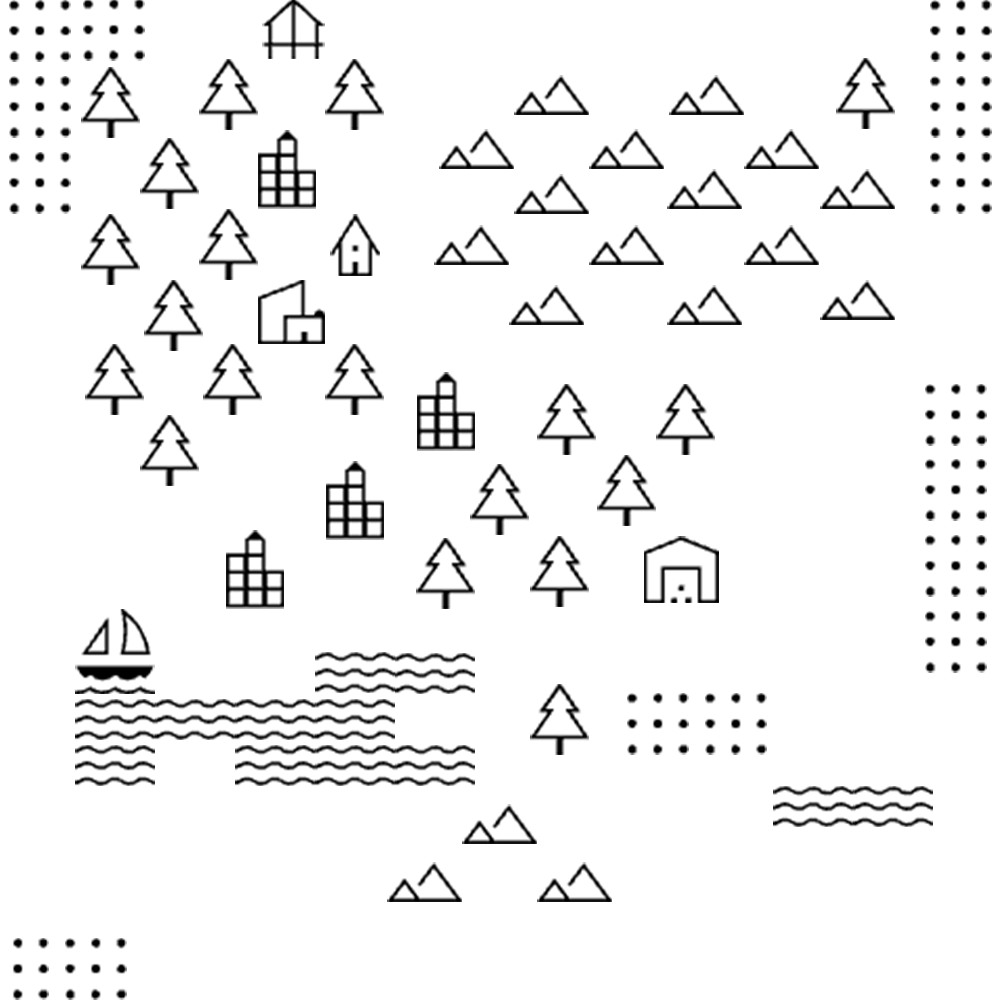
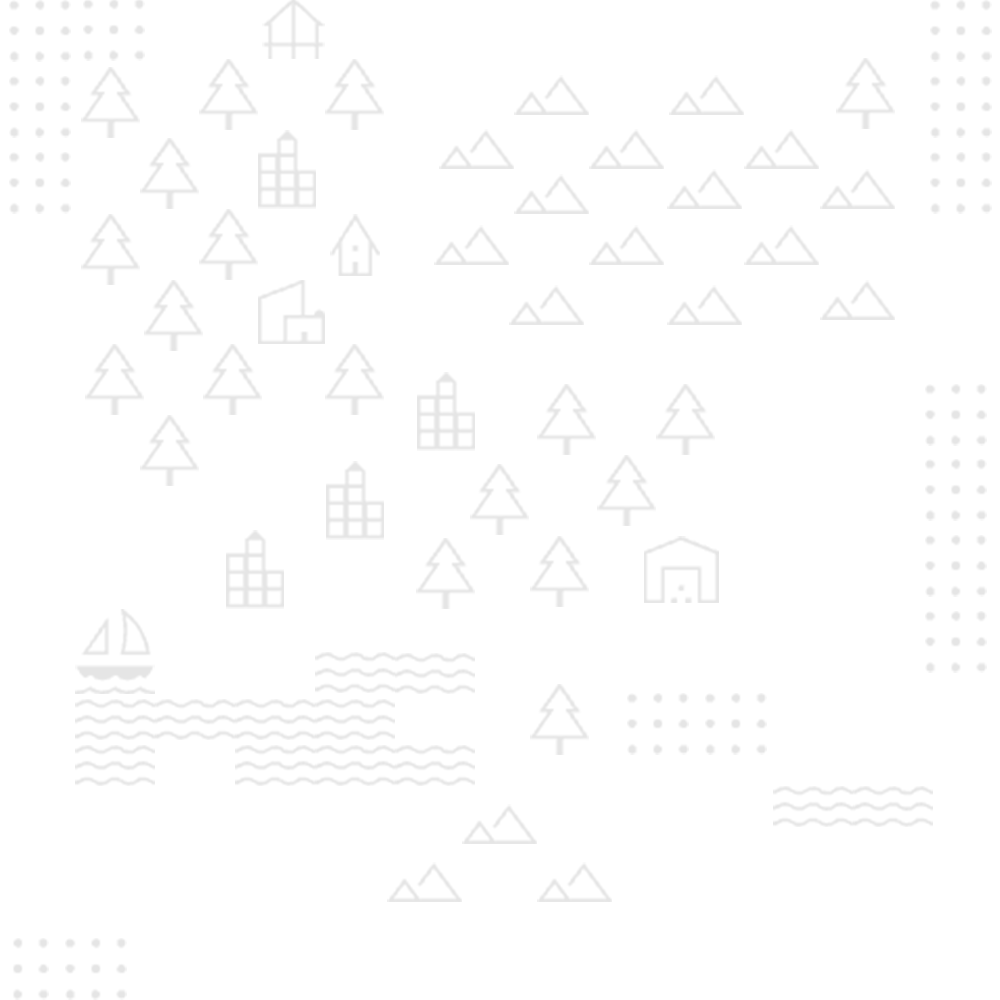
Fix potential issues on the iOS side: Blend mode does not work with Repeating.

diff --git a/src/components/bodyContentViewerCreative.vue b/src/components/bodyContentViewerCreative.vue
@@ -70,7 +70,6 @@ export default {
   background-color: var(--body-content-bg);
   height: 50rem;
   background-image: url('../assets/background/abstract-small.webp');
-  background-blend-mode: soft-light;
   background-position: center;
   background-origin: content-box;
   background-repeat: repeat-x;
@@ -148,7 +147,6 @@ export default {
   background-color: var(--body-content-bg);
   transform: translateY(-10rem);
   background-image: url('../assets/background/abstract-small-2.webp');
-  background-blend-mode: soft-light;
   background-position: center;
   background-origin: content-box;
   background-repeat: repeat-x;

diff --git a/src/components/bodyContentViewerLobby.vue b/src/components/bodyContentViewerLobby.vue
@@ -71,7 +71,6 @@ export default {
   background-color: var(--body-content-bg);
   height: 50rem;
   background-image: url('../assets/background/abstract-small.webp');
-  background-blend-mode: soft-light;
   background-position: center;
   background-origin: content-box;
   background-repeat: repeat-x;
@@ -149,7 +148,6 @@ export default {
   background-color: var(--body-content-bg);
   transform: translateY(-10rem);
   background-image: url('../assets/background/abstract-small-2.webp');
-  background-blend-mode: soft-light;
   background-position: center;
   background-origin: content-box;
   background-repeat: repeat-x;

diff --git a/src/components/bodyContentViewerSurvival.vue b/src/components/bodyContentViewerSurvival.vue
@@ -71,7 +71,6 @@ export default {
   background-color: var(--body-content-bg);
   height: 50rem;
   background-image: url('../assets/background/abstract-small.webp');
-  background-blend-mode: soft-light;
   background-position: center;
   background-origin: content-box;
   background-repeat: repeat-x;
@@ -149,7 +148,6 @@ export default {
   background-color: var(--body-content-bg);
   transform: translateY(-10rem);
   background-image: url('../assets/background/abstract-small-2.webp');
-  background-blend-mode: soft-light;
   background-position: center;
   background-origin: content-box;
   background-repeat: repeat-x;

diff --git a/src/components/mobile/mobileBodyContentViewerCreative.vue b/src/components/mobile/mobileBodyContentViewerCreative.vue
@@ -62,7 +62,6 @@ export default {
   transform: translateY(5rem);
 
   background-image: url('../../assets/background/abstract-small.webp');
-  background-blend-mode: soft-light;
   background-position: center;
   background-origin: content-box;
   background-size: cover;
@@ -131,7 +130,6 @@ export default {
   transform: translateY(5rem);
 
   background-image: url('../../assets/background/abstract-small-2.webp');
-  background-blend-mode: soft-light;
   background-position: center;
   background-origin: content-box;
   background-size: cover;

diff --git a/src/components/mobile/mobileBodyContentViewerLobby.vue b/src/components/mobile/mobileBodyContentViewerLobby.vue
@@ -63,7 +63,6 @@ export default {
   transform: translateY(5rem);
 
   background-image: url('../../assets/background/abstract-small.webp');
-  background-blend-mode: soft-light;
   background-position: center;
   background-origin: content-box;
   background-size: cover;
@@ -132,7 +131,6 @@ export default {
   transform: translateY(5rem);
 
   background-image: url('../../assets/background/abstract-small-2.webp');
-  background-blend-mode: soft-light;
   background-position: center;
   background-origin: content-box;
   background-size: cover;

diff --git a/src/components/mobile/mobileBodyContentViewerSurvival.vue b/src/components/mobile/mobileBodyContentViewerSurvival.vue
@@ -63,7 +63,6 @@ export default {
   transform: translateY(5rem);
 
   background-image: url('../../assets/background/abstract-small.webp');
-  background-blend-mode: soft-light;
   background-position: center;
   background-origin: content-box;
   background-size: cover;
@@ -132,7 +131,6 @@ export default {
   transform: translateY(5rem);
 
   background-image: url('../../assets/background/abstract-small-2.webp');
-  background-blend-mode: soft-light;
   background-position: center;
   background-origin: content-box;
   background-size: cover;

diff --git a/src/components/tools/status/bodyDataOutput.vue b/src/components/tools/status/bodyDataOutput.vue
@@ -143,7 +143,6 @@ export default {
   background-color: var(--body-content-bg);
   height: 1000px;
   background-image: url('../../../assets/background/abstract.webp');
-  background-blend-mode: soft-light;
   background-position: center;
   background-origin: content-box;
   background-repeat: repeat-x;

diff --git a/src/components/errors/404.vue b/src/components/errors/404.vue
@@ -45,7 +45,6 @@ div.not-found-page{
   background-color: var(--body-content-bg);
   height: 1000px;
   background-image: url('../../assets/background/abstract.webp');
-  background-blend-mode: soft-light;
   background-position: center;
   background-origin: content-box;
   background-repeat: repeat-x;

diff --git a/src/App.vue b/src/App.vue
@@ -68,7 +68,7 @@ export default {
   },
   methods: {
     onResize () {
-      this.isMobile = window.innerWidth < 750
+      this.isMobile = window.innerWidth < 700
       if (window.innerWidth < 1100){
         this.isSmallScreen = true
         this.$refs.content.isSmallScreen = true

diff --git a/src/components/bodyContentViewer.vue b/src/components/bodyContentViewer.vue
@@ -85,7 +85,6 @@ export default {
   background-color: var(--body-content-bg);
 
   background-image: url('../assets/background/abstract.webp');
-  background-blend-mode: soft-light;
   background-position: center;
   background-origin: content-box;
   background-repeat: repeat-x;

diff --git a/src/components/bodyContentViewerMember.vue b/src/components/bodyContentViewerMember.vue
@@ -17,7 +17,6 @@ export default {
   background-color: var(--body-content-bg);
 
   background-image: url('../assets/background/abstract.webp');
-  background-blend-mode: soft-light;
   background-position: center;
   background-origin: content-box;
   background-repeat: repeat-x;

diff --git a/src/components/mobile/tools/status/mobileDataOutput.vue b/src/components/mobile/tools/status/mobileDataOutput.vue
@@ -143,7 +143,6 @@ export default {
   height: 1000px;
 
   background-image: url('../../../../assets/background/abstract.webp');
-  background-blend-mode: soft-light;
   background-position: center;
   background-origin: content-box;
   background-size: cover;
